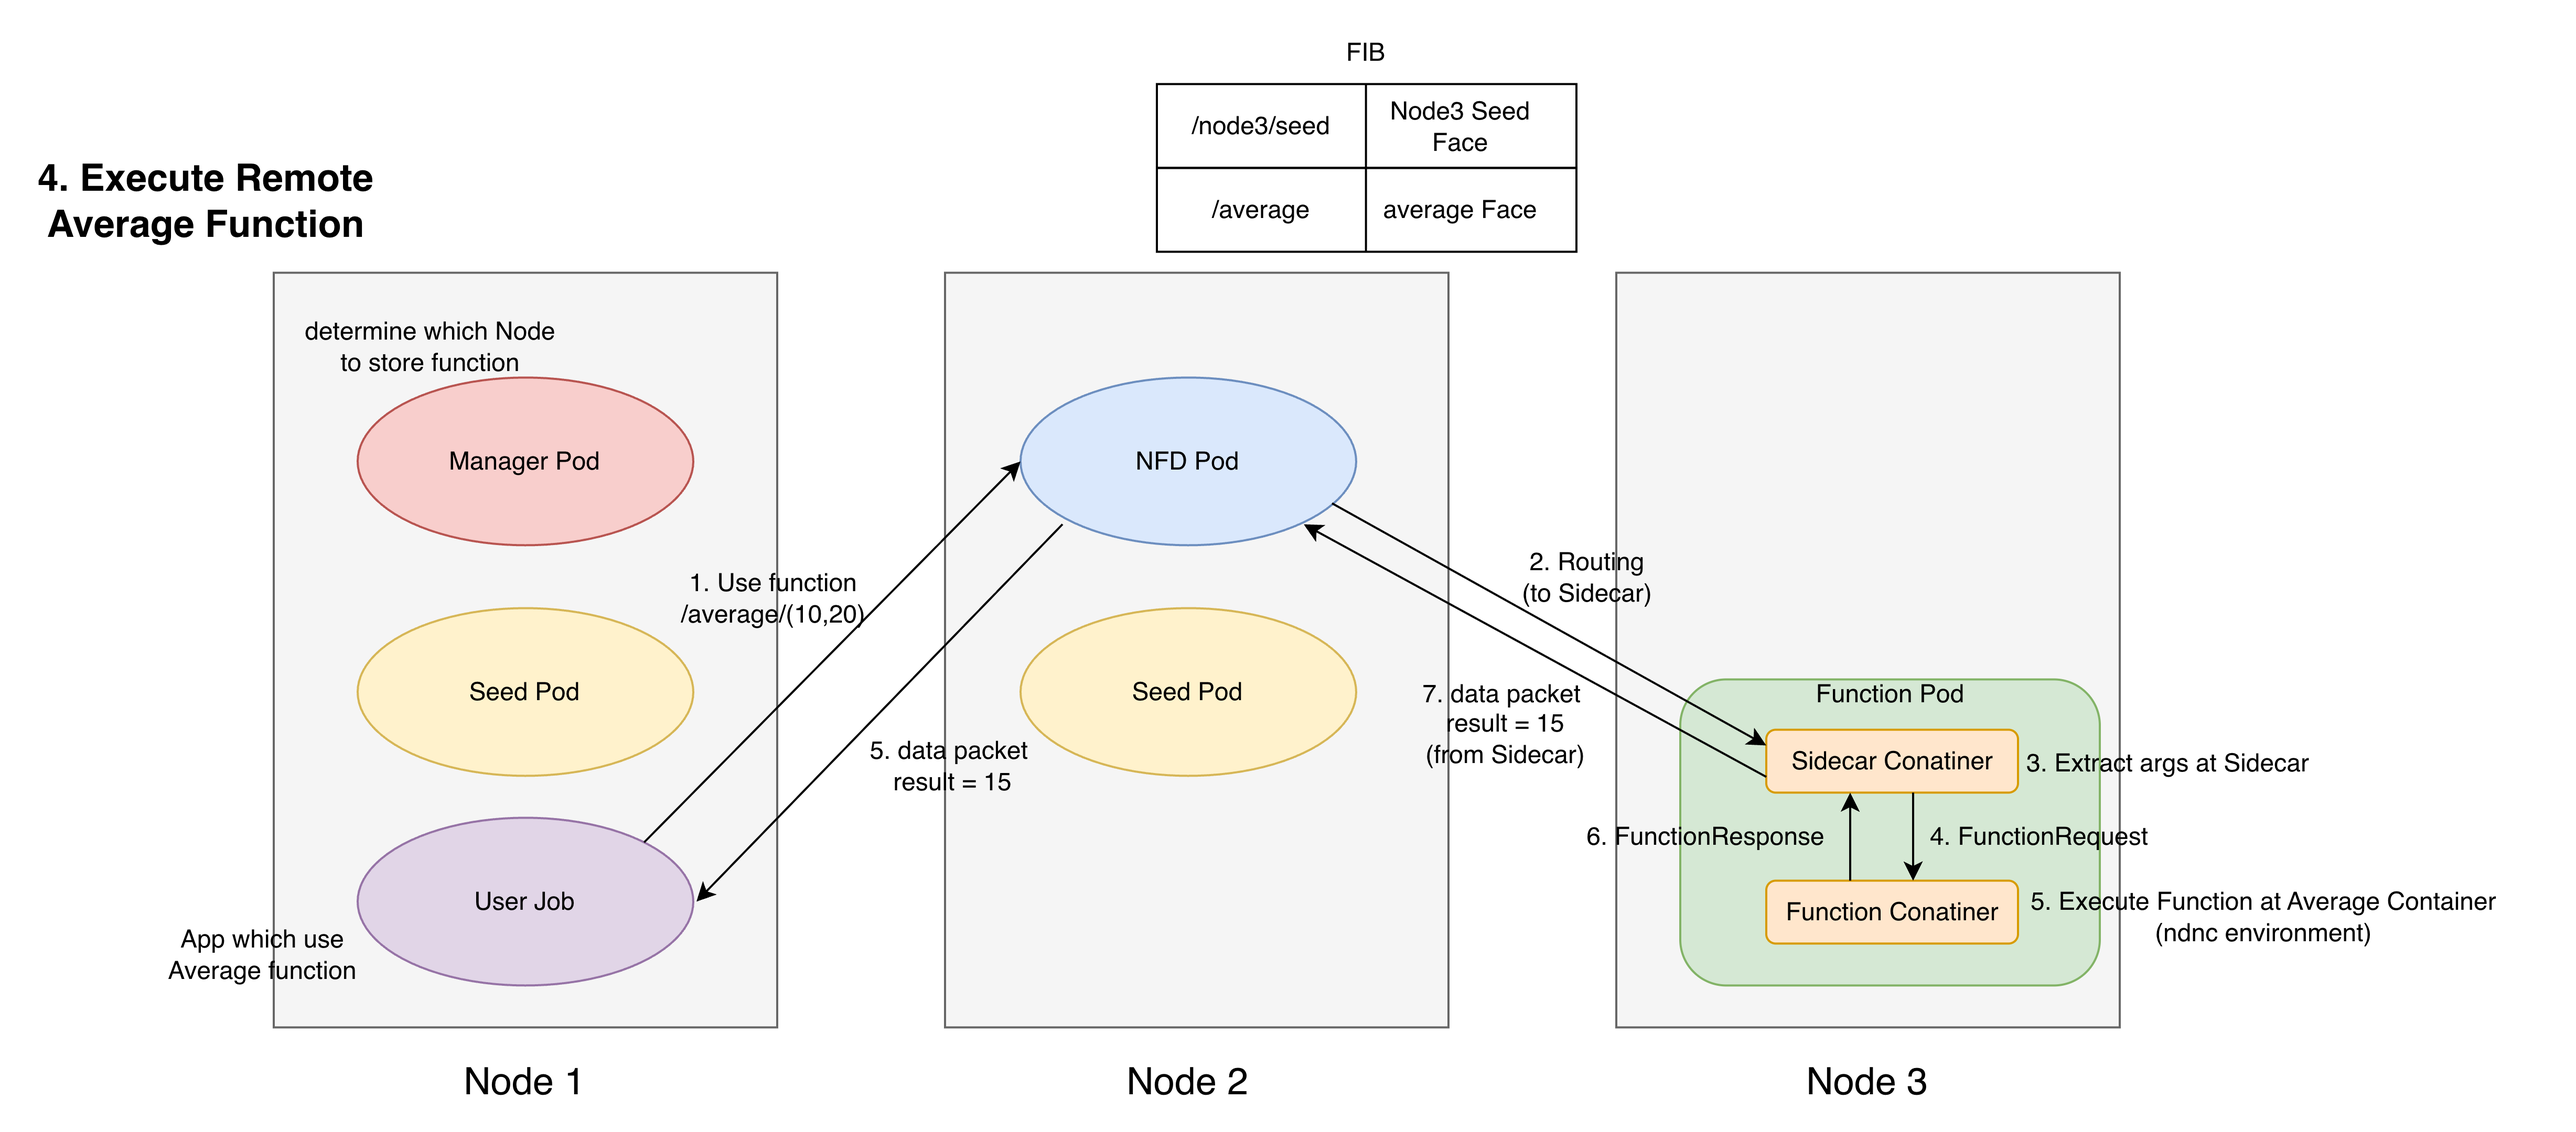
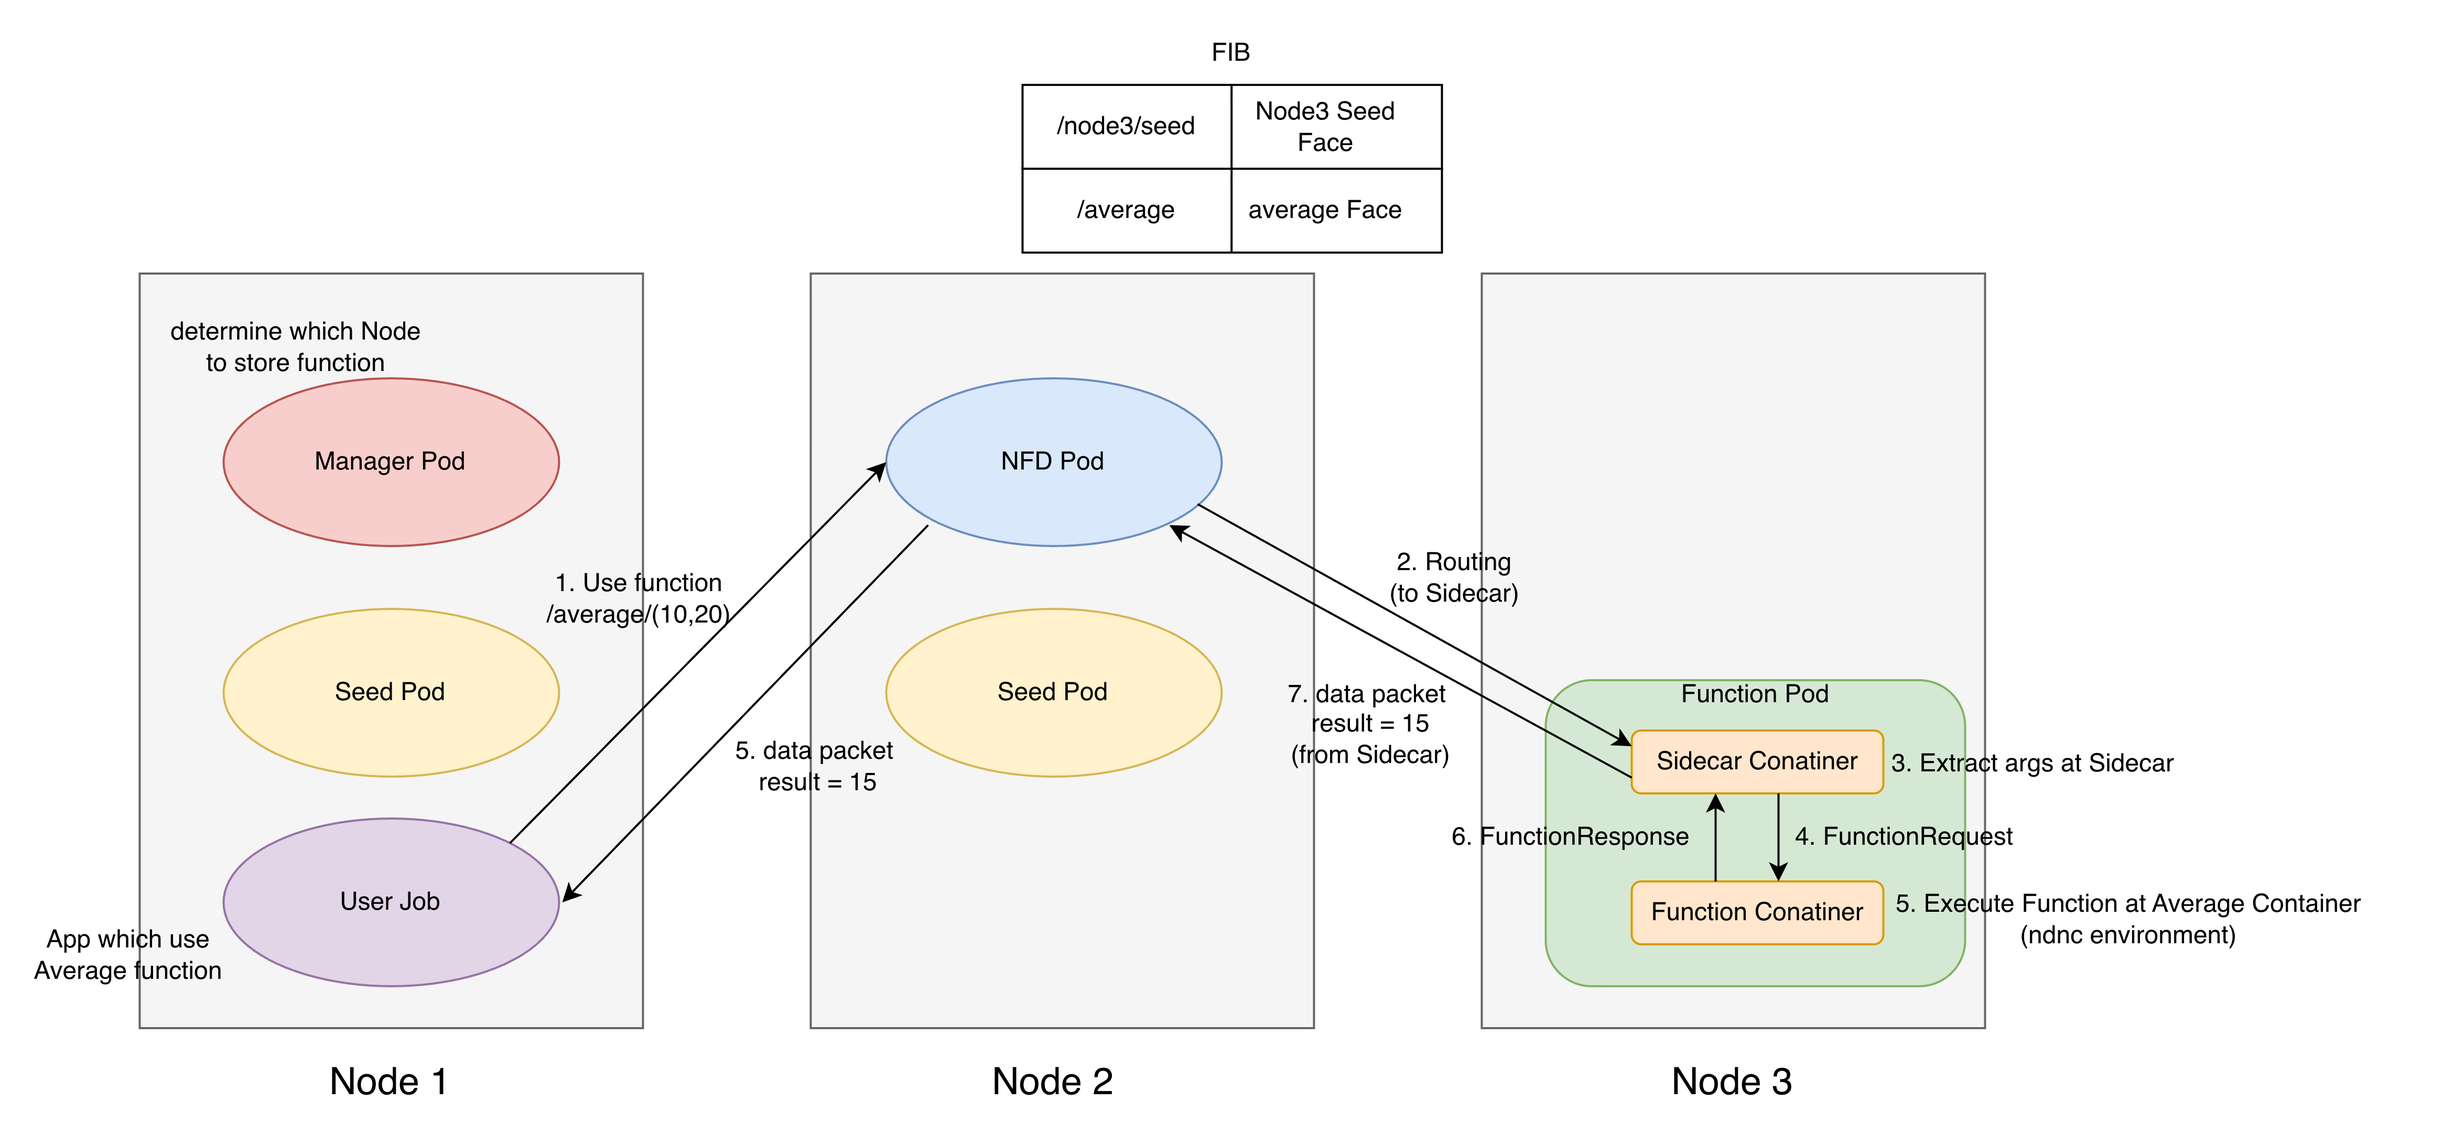
docs: update image

diff --git a/README.md b/README.md
@@ -2,8 +2,6 @@
 
 ![register](docs/images/register.png)
 
-![get-func](docs/images/get-func.png)
-
 ![get-data](docs/images/get-data.png)
 
 ![reschedule](docs/images/reschedule.png)
